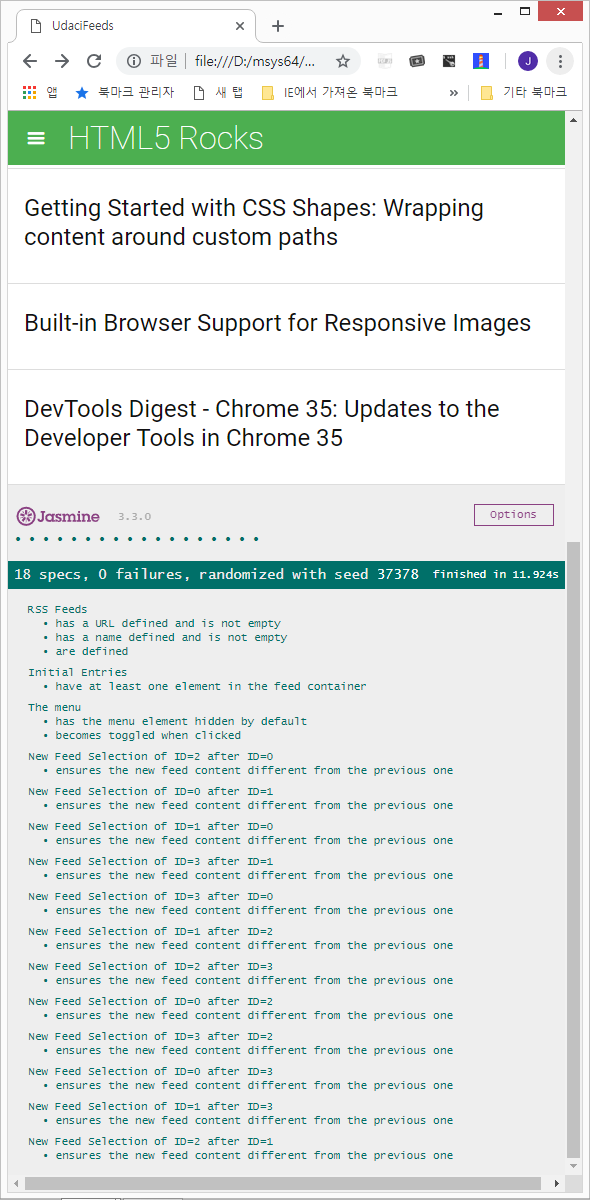
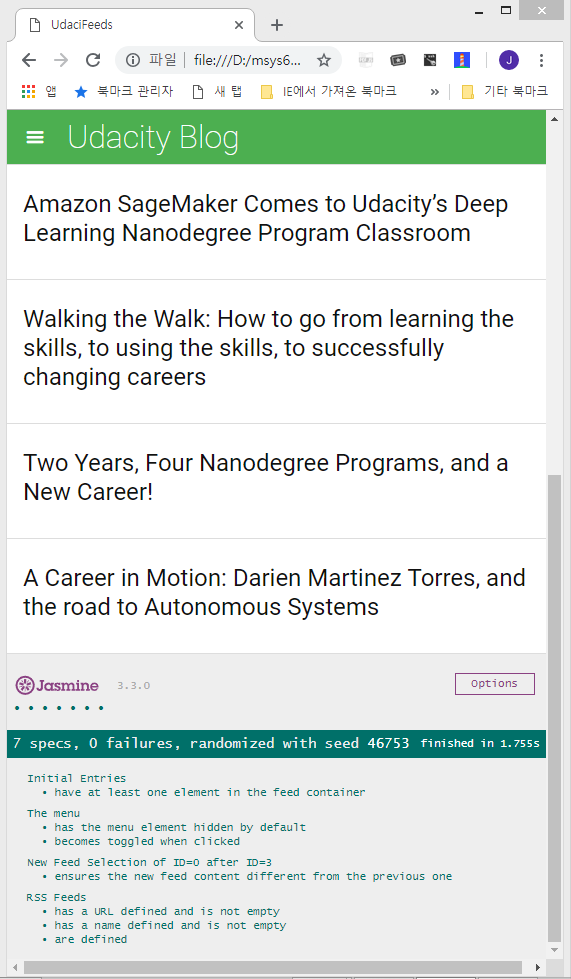
[fix] Correct some bugs
Following guides from Udacity reviewer, I corrected some potential bugs.

Changed region(s): [[0.0, 0.0, 1.0, 1.0], [0.8336, 0.6742, 0.8932, 0.7048]]

diff --git a/jasmine/spec/feedreader.js b/jasmine/spec/feedreader.js
@@ -16,10 +16,7 @@ $(function() {
     describe('RSS Feeds', function() {
         /* This is our first test - it tests to make sure that the
          * allFeeds variable has been defined and that it is not
-         * empty. Experiment with this before you get started on
-         * the rest of this project. What happens when you change
-         * allFeeds in app.js to be an empty array and refresh the
-         * page?
+         * empty.
          */
         it('are defined', function() {
             expect(allFeeds).toBeDefined();
@@ -27,7 +24,7 @@ $(function() {
         });
 
 
-        /* TODO: Write a test that loops through each feed
+        /* This is a test that loops through each feed
          * in the allFeeds object and ensures it has a URL defined
          * and that the URL is not empty.
          */
@@ -39,7 +36,7 @@ $(function() {
          });
 
 
-        /* TODO: Write a test that loops through each feed
+        /* This is a test that loops through each feed
          * in the allFeeds object and ensures it has a name defined
          * and that the name is not empty.
          */
@@ -53,38 +50,36 @@ $(function() {
     });
 
 
-    /* TODO: Write a new test suite named "The menu" */
+    /* This is a new test suite named "The menu" */
     describe('The menu', function() {
-      /* TODO: Write a test that ensures the menu element is
-       * hidden by default. You'll have to analyze the HTML and
-       * the CSS to determine how we're performing the
-       * hiding/showing of the menu element.
+      /* This is a test that ensures the menu element is
+       * hidden by default.
        */
         body = document.body;
        it('has the menu element hidden by default', function() {
-         expect(body.className).toMatch('menu-hidden');
+         expect(body.classList.contains('menu-hidden')).toBe(true);
        });
-       /* TODO: Write a test that ensures the menu changes
+       /* This is a test that ensures the menu changes
         * visibility when the menu icon is clicked. This test
-        * should have two expectations: does the menu display when
+        * have two expectations: does the menu display when
         * clicked and does it hide when clicked again.
         */
         menuIcon = document.querySelector('.menu-icon-link');
         it('becomes toggled when clicked', function() {
           menuIcon.click();
-          expect(body.className).not.toMatch('menu-hidden');
+          expect(body.classList.contains('menu-hidden')).not.toBe(true);
           menuIcon.click();
-          expect(body.className).toMatch('menu-hidden');
+          expect(body.classList.contains('menu-hidden')).toBe(true);
         });
 
     });
 
-    /* TODO: Write a new test suite named "Initial Entries" */
+    /* This is a new test suite named "Initial Entries" */
     describe('Initial Entries', function() {
-      /* TODO: Write a test that ensures when the loadFeed
+      /* This is a test that ensures when the loadFeed
        * function is called and completes its work, there is at least
        * a single .entry element within the .feed container.
-       * Remember, loadFeed() is asynchronous so this test will require
+       * This test requires
        * the use of Jasmine's beforeEach and asynchronous done() function.
        */
        beforeEach(function(done) {
@@ -97,12 +92,11 @@ $(function() {
        });
     });
 
-    /* TODO: Write a new test suite named "New Feed Selection" */
+    /* This is a new test suite named "New Feed Selection" */
     const defineSuite = (oldID, newID) => {
       describe(`New Feed Selection of ID=${newID} after ID=${oldID}`, function() {
-          /* TODO: Write a test that ensures when a new feed is loaded
+          /* This is a test that ensures when a new feed is loaded
            * by the loadFeed function that the content actually changes.
-           * Remember, loadFeed() is asynchronous.
            */
            let oldContent;
            let newContent;
@@ -121,13 +115,6 @@ $(function() {
       });
     }
     const num = allFeeds.length;
-    /* call defineSuite() with all selection combination. */
-    for(let i = 0; i < num; i++) {
-      for(let j = i + 1; j < num; j++) {
-        defineSuite(i, j); /* selection of ID=j after ID=i */
-        defineSuite(j, i); /* selection of ID=i after ID=j */
-      }
-    }
-    /* now load the initial feed */
-    loadFeed(0);
+    /* call defineSuite() with a selection combination. */
+    defineSuite(3, 0); /* selection of ID=3 after ID=1 */
 }());
